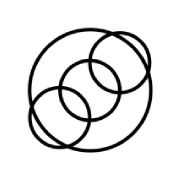
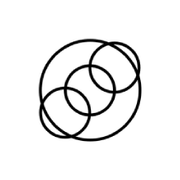
fix(onboarding): resolve 5 new-user onboarding bugs
- identity: coerce empty birthday "" to null before upsert so optional
  date_of_birth no longer fails Postgres date validation
- pods: read pod-leader minimum from NEXT_PUBLIC_MIN_POD_LEADERS (default 1)
  instead of hardcoded 3; applies to validation, form init, and UI
- TosModal: use dvh + safe-area padding so the Accept button stays reachable
  on mobile (vh lies when the address bar is visible)
- InstallPrompt: disable install button until beforeinstallprompt is captured
  (fixes "first tap does nothing"), suppress re-prompt after native dismiss,
  fix appinstalled listener leak
- PWA icons: flatten onto opaque white + safe zone so Android no longer renders
  the icon background as black; regenerate all icon assets

Changed region(s): [[0.1389, 0.1389, 0.8611, 0.8611]]

diff --git a/src/components/InstallPrompt.tsx b/src/components/InstallPrompt.tsx
@@ -67,21 +67,26 @@ export function InstallPrompt() {
     window.addEventListener('beforeinstallprompt', handler);
 
     // Listen for successful installation
-    window.addEventListener('appinstalled', () => {
+    const installedHandler = () => {
       console.log('✅ [PWA] App installed successfully');
       setIsInstalled(true);
       setShowPrompt(false);
       setDeferredPrompt(null);
-    });
+    };
+    window.addEventListener('appinstalled', installedHandler);
 
     return () => {
       window.removeEventListener('beforeinstallprompt', handler);
+      window.removeEventListener('appinstalled', installedHandler);
     };
   }, []);
 
   const handleInstall = async () => {
     if (!deferredPrompt) {
-      console.log('[PWA] No install prompt available');
+      // The native prompt hasn't been captured yet (beforeinstallprompt is
+      // asynchronous). Don't silently no-op — keep the banner up; the button is
+      // disabled until the prompt is ready, so this is just a safety guard.
+      console.log('[PWA] Install prompt not ready yet');
       return;
     }
 
@@ -95,10 +100,14 @@ export function InstallPrompt() {
       if (outcome === 'accepted') {
         console.log('✅ [PWA] User accepted install');
       } else {
+        // User dismissed the native sheet — suppress re-prompting (same as the
+        // X / "Not now" buttons) so the banner doesn't immediately reappear.
         console.log('⏭ [PWA] User dismissed install');
+        localStorage.setItem('pwa-install-dismissed', new Date().toISOString());
       }
 
-      // Clear prompt
+      // A beforeinstallprompt event can only be used once. Clear it; Chrome will
+      // re-fire the event later and re-arm deferredPrompt if still installable.
       setDeferredPrompt(null);
       setShowPrompt(false);
     } catch (error) {
@@ -256,10 +265,11 @@ export function InstallPrompt() {
         <div className="flex gap-2">
           <button
             onClick={handleInstall}
-            className="flex-1 flex items-center justify-center gap-2 bg-primary hover:bg-primary/90 text-white px-4 py-2.5 rounded-lg font-medium transition-colors"
+            disabled={!deferredPrompt}
+            className="flex-1 flex items-center justify-center gap-2 bg-primary hover:bg-primary/90 disabled:opacity-60 disabled:cursor-wait text-white px-4 py-2.5 rounded-lg font-medium transition-colors"
           >
             <Download size={18} />
-            Install App
+            {deferredPrompt ? 'Install App' : 'Preparing…'}
           </button>
           <button
             onClick={handleDismiss}

diff --git a/src/features/pods/components/HatsModulePodCreationForm.tsx b/src/features/pods/components/HatsModulePodCreationForm.tsx
@@ -107,6 +107,13 @@ const InlineSwitch: React.FC<{
   />
 );
 
+// Minimum required pod leaders. Configurable via NEXT_PUBLIC_MIN_POD_LEADERS
+// (build-time inlined — a Vercel change requires a redeploy). Defaults to 1.
+const MIN_POD_LEADERS = Math.max(
+  1,
+  parseInt(process.env.NEXT_PUBLIC_MIN_POD_LEADERS || '1', 10) || 1,
+);
+
 export const HatsModulePodCreationForm: React.FC<
   HatsModulePodCreationFormProps
 > = ({ onSuccess, onCancel, testingMode = false }) => {
@@ -201,7 +208,9 @@ export const HatsModulePodCreationForm: React.FC<
     name: '',
     description: '',
     parentPodId: '', // Will be set to Community Pods UUID once dropdown loads
-    podLeaders: testingMode ? [address || ''] : [address || '', '', ''], // ✅ FIX: Default first leader to connected address (smart wallet)
+    podLeaders: testingMode
+      ? [address || '']
+      : [address || '', ...Array(Math.max(0, MIN_POD_LEADERS - 1)).fill('')], // first leader defaults to connected address (smart wallet); pad to the configured minimum
     eligibilityRules: [], // ✅ Unified: All criteria managed via EligibilityCriteriaBuilder
     enableTreasury: true,
     treasuryThresholdBps: 6667, // Strict (66.67%) preset — V3 treasury approval threshold
@@ -500,7 +509,7 @@ export const HatsModulePodCreationForm: React.FC<
     const validLeads = formData.podLeaders.filter(
       (lead) => lead && lead.trim(),
     );
-    const requiredLeads = testingMode ? 1 : 3;
+    const requiredLeads = testingMode ? 1 : MIN_POD_LEADERS;
 
     if (validLeads.length < requiredLeads) {
       errors.push(
@@ -567,7 +576,7 @@ export const HatsModulePodCreationForm: React.FC<
 
   // Remove leader field
   const removeLeaderField = (index: number) => {
-    if (formData.podLeaders.length > (testingMode ? 1 : 3)) {
+    if (formData.podLeaders.length > (testingMode ? 1 : MIN_POD_LEADERS)) {
       const newLeaders = formData.podLeaders.filter((_, i) => i !== index);
       updateFormData('podLeaders', newLeaders);
     }
@@ -4010,7 +4019,7 @@ export const HatsModulePodCreationForm: React.FC<
                       )}
                     />
                   </div>
-                  {formData.podLeaders.length > (testingMode ? 1 : 3) && (
+                  {formData.podLeaders.length > (testingMode ? 1 : MIN_POD_LEADERS) && (
                     <Button
                       type="button"
                       variant="outline"

diff --git a/src/components/TosModal.tsx b/src/components/TosModal.tsx
@@ -52,8 +52,8 @@ export function TosModal({ walletAddress, onAccepted }: TosModalProps) {
   };
 
   return (
-    <div className="fixed inset-0 z-50 flex items-center justify-center bg-black/60 px-4">
-      <div className="bg-white rounded-2xl shadow-2xl w-full max-w-lg flex flex-col max-h-[90vh]">
+    <div className="fixed inset-0 z-50 flex items-center justify-center bg-black/60 px-4 py-4 pb-[max(1rem,env(safe-area-inset-bottom))]">
+      <div className="bg-white rounded-2xl shadow-2xl w-full max-w-lg flex flex-col max-h-[90dvh]">
         {/* Header */}
         <div className="px-6 pt-6 pb-4 border-b border-gray-100">
           <h2 className="text-xl font-bold text-gray-900">

diff --git a/src/features/identity/utils/updateProfile.ts b/src/features/identity/utils/updateProfile.ts
@@ -54,6 +54,12 @@ export async function updateProfile(
     throw fetchError;
   }
 
+  // Coerce empty optional date strings to null — Postgres `date` columns reject
+  // "" (they accept only a valid date or null). date_of_birth is optional.
+  if ((updates as any).date_of_birth === '') {
+    (updates as any).date_of_birth = null;
+  }
+
   let payload;
   if (existingProfile) {
     // Remove wallet_address from the incoming updates to ignore any changes,
